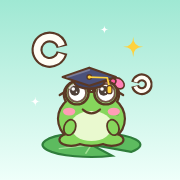
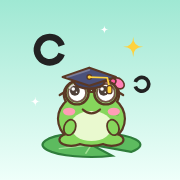
The eye-chart C is black
Every "C" (トリプル C, かぞえて C, まわりの C, うえした C, their icons and the app
icon) is now black like a real eye chart, without the brown sticker outline.
A C tapped by mistake turns grey, and the C to count in かぞえて C sits on the
same yellow disc as in the corner. sw.js VERSION miru-v3.

Changed region(s): [[0.1667, 0.1667, 0.3889, 0.3889], [0.7222, 0.3889, 0.8611, 0.5278]]

diff --git a/js/tr/countc.js b/js/tr/countc.js
@@ -78,14 +78,15 @@
         D.roundRect(c, BOX.x0 - 44, BOX.y0 - 50, BOX.x1 - BOX.x0 + 88, BOX.y1 - BOX.y0 + 94, 24); D.paint(c, 'rgba(255,255,255,.4)');
         if (phase === 'target') {
           A.text(c, L('この むきの Cを かぞえてね！'), 180, 104, 21, '#fff', { lw: 6 });
-          A.ringC(c, 180, 290, 52 + Math.sin(pt * 6) * 2, R.target, '#fff4b0');
+          A.disc(c, 180, 290, 76, '#fff4b0', 3);   // (the C to count sits on yellow, as in the corner later)
+          A.ringC(c, 180, 290, 52 + Math.sin(pt * 6) * 2, R.target);
           return;
         }
         // the C to count, small in the corner
         A.disc(c, 318, 116, 28, '#fff4b0', 3);
-        A.ringC(c, 318, 116, 18, R.target, '#fffdf5');
+        A.ringC(c, 318, 116, 18, R.target);
         A.text(c, L(phase === 'ask' ? 'いくつ あった？' : 'おなじ むきは いくつ？'), 150, 116, 21, '#fff', { lw: 6, max: 230 });
-        if (phase === 'show' && pt < p.show) { var q = R.cs[ci]; A.ringC(c, q.x, q.y, p.size, q.dir, '#fffdf5'); }
+        if (phase === 'show' && pt < p.show) { var q = R.cs[ci]; A.ringC(c, q.x, q.y, p.size, q.dir); }
         if (phase === 'good' || phase === 'bad') A.text(c, L('こたえは {n}', { n: R.ans }), 180, 290, 30, '#fff', { lw: 8 });
       },
       peek: function () { return phase === 'ask' ? { pad: R.ans } : null; },   // for playtesting
@@ -113,8 +114,9 @@
     start: start,
     icon: function (c, t) {
       var A = G.Art, k = Math.floor((t || 0) * 2) % 4;
-      A.ringC(c, 30, 30, 15, 1, '#fff4b0');
-      [[70, 36, 1], [34, 74, 2], [74, 74, 1], [52, 52, 0]].forEach(function (q, i) { if (i === k) A.ringC(c, q[0], q[1], 15, q[2], '#fffdf5'); });
+      A.disc(c, 30, 30, 21, '#fff4b0', 2.4);
+      A.ringC(c, 30, 30, 14, 1);
+      [[70, 36, 1], [34, 74, 2], [74, 74, 1], [52, 52, 0]].forEach(function (q, i) { if (i === k) A.ringC(c, q[0], q[1], 15, q[2]); });
     }
   });
 }(typeof Trainings !== 'undefined' ? Trainings : require('../trainings.js')));

diff --git a/js/art.js b/js/art.js
@@ -320,12 +320,19 @@ var Art = (function () {
   // Directions: 0 up, 1 right, 2 down, 3 left.
   var DIR_ANGLE = [-Math.PI / 2, 0, Math.PI / 2, Math.PI];
   // The "C" of an eye chart (a ring with a gap), gap towards dir.
+  // Black, as on a real eye chart; a light colour (a C that was tapped by mistake) gets the brown outline of the stickers.
+  var C_COLOR = '#222222';
   function ringC(ctx, x, y, r, dir, color) {
+    color = color || C_COLOR;
     var mid = r * 0.8, w = r * 0.42, a = DIR_ANGLE[dir], gap = Math.asin(Math.min(0.9, w * 0.62 / mid));
     ctx.save(); ctx.lineCap = 'butt';
-    ctx.beginPath(); ctx.arc(x, y, mid, a + gap - 0.1, a - gap + 0.1 + TAU); ctx.lineWidth = w + Math.max(3, r * 0.14); ctx.strokeStyle = INK; ctx.stroke();
-    ctx.beginPath(); ctx.arc(x, y, mid, a + gap, a - gap + TAU); ctx.lineWidth = w; ctx.strokeStyle = color || '#fffdf5'; ctx.stroke();
+    if (isLight(color)) { ctx.beginPath(); ctx.arc(x, y, mid, a + gap - 0.1, a - gap + 0.1 + TAU); ctx.lineWidth = w + Math.max(3, r * 0.14); ctx.strokeStyle = INK; ctx.stroke(); }
+    ctx.beginPath(); ctx.arc(x, y, mid, a + gap, a - gap + TAU); ctx.lineWidth = w; ctx.strokeStyle = color; ctx.stroke();
     ctx.restore();
+  }
+  function isLight(hex) {
+    var n = parseInt(hex.slice(1), 16);
+    return ((n >> 16) * 0.299 + ((n >> 8) & 255) * 0.587 + (n & 255) * 0.114) / 255 > 0.6;
   }
   // A chunky arrow pointing dir.
   function dirArrow(ctx, x, y, s, dir, color) {
@@ -404,7 +411,7 @@ var Art = (function () {
   }
 
   return {
-    FONT: FONT, MARKS: MARKS, CUP_COLOR: CUP_COLOR, DIR_ANGLE: DIR_ANGLE,
+    FONT: FONT, MARKS: MARKS, CUP_COLOR: CUP_COLOR, C_COLOR: C_COLOR, DIR_ANGLE: DIR_ANGLE,
     blob: blob, eyeDot: eyeDot, smile: smile, blush: blush, stroke: stroke, tube: tube, text: text, shade: shade,
     hakase: hakase, animal: animal, stamp: stamp, maru: maru, batsu: batsu,
     ringC: ringC, dirArrow: dirArrow, mark: mark, cup: cup, disc: disc, balloon: balloon, wing: wing

diff --git a/js/tr/triplec.js b/js/tr/triplec.js
@@ -77,7 +77,7 @@
           D.sparkle(c, 180, 285, 12 + Math.sin(pt * 10) * 2, '#ffd23d');
         } else if (phase === 'show') {
           A.text(c, L('Cの あいてる ほうを おぼえてね'), 180, 104, 20, '#fff', { lw: 6 });
-          if (pt < p.show) { var q = R.cs[ci]; A.ringC(c, q.x, q.y, p.size, q.dir, '#fffdf5'); }
+          if (pt < p.show) { var q = R.cs[ci]; A.ringC(c, q.x, q.y, p.size, q.dir); }
         } else {
           A.text(c, L(phase === 'ask' ? 'でた じゅんに こたえてね' : phase === 'good' ? 'ぜんぶ あたり！' : 'こたえは これ'), 180, 104, 22, '#fff', { lw: 6 });
           // the answer so far, one box per C
@@ -87,8 +87,8 @@
             D.roundRect(c, x - w / 2, y - w / 2, w, w, 14); D.paint(c, '#fffdf5', D.INK, 3);
             A.text(c, String(k + 1), x - w / 2 + 11, y - w / 2 + 11, 13, D.INK, { stroke: false });
             if (said[k] != null) A.dirArrow(c, x, y, 0.95, said[k], said[k] === R.cs[k].dir ? ARROW_COLORS[said[k]] : '#c9c1bb');
-            else if (phase === 'bad') A.ringC(c, x, y, 20, R.cs[k].dir, '#bfe7ff');
-            if (phase === 'bad' && said[k] != null && said[k] !== R.cs[k].dir) A.ringC(c, x, y + 58, 17, R.cs[k].dir, '#bfe7ff');
+            else if (phase === 'bad') A.ringC(c, x, y, 20, R.cs[k].dir);
+            if (phase === 'bad' && said[k] != null && said[k] !== R.cs[k].dir) A.ringC(c, x, y + 58, 17, R.cs[k].dir);
           }
         }
       },
@@ -117,7 +117,7 @@
     start: start,
     icon: function (c, t) {
       var A = G.Art, k = Math.floor((t || 0) * 1.5) % 3;
-      [[28, 30, 0], [72, 46, 1], [40, 76, 3]].forEach(function (q, i) { if (i <= k) A.ringC(c, q[0], q[1], 15, q[2], '#fffdf5'); });
+      [[28, 30, 0], [72, 46, 1], [40, 76, 3]].forEach(function (q, i) { if (i <= k) A.ringC(c, q[0], q[1], 15, q[2]); });
     }
   });
 }(typeof Trainings !== 'undefined' ? Trainings : require('../trainings.js')));

diff --git a/js/tr/peric.js b/js/tr/peric.js
@@ -61,10 +61,10 @@
         A.text(c, L('まんなかと おなじ むきの Cは どれ？'), 180, 104, 20, '#fff', { lw: 6 });
         D.circle(c, CX, CY, p.radius + p.size + 14); D.paint(c, 'rgba(255,255,255,.4)');
         D.circle(c, CX, CY, p.size * 1.5 + 10); D.paint(c, '#fff4b0', D.INK, 3);
-        A.ringC(c, CX, CY, p.size * 1.5, Q.dir, '#fffdf5');
+        A.ringC(c, CX, CY, p.size * 1.5, Q.dir);
         Q.cs.forEach(function (q, k) {
           if (phase === 'good' && k === Q.ans) { D.circle(c, q.x, q.y, p.size + 8); D.paint(c, 'rgba(255,143,192,.5)'); }
-          A.ringC(c, q.x, q.y, p.size, q.dir, k === wrong ? '#d8d0ca' : '#fffdf5');
+          A.ringC(c, q.x, q.y, p.size, q.dir, k === wrong ? '#b3aaa4' : null);   // (a C tapped by mistake turns grey)
         });
       },
       peek: function () {   // for playtesting
@@ -102,10 +102,10 @@
     icon: function (c, t) {
       var A = G.Art, D = G.Draw;
       D.circle(c, 50, 52, 16); D.paint(c, '#fff4b0', D.INK, 2);
-      A.ringC(c, 50, 52, 12, 1, '#fffdf5');
+      A.ringC(c, 50, 52, 12, 1);
       [[50, 16, 0], [86, 52, 1], [50, 88, 2], [14, 52, 3]].forEach(function (q, i) {
         if (i === 1) { D.circle(c, q[0], q[1], 14 + Math.sin((t || 0) * 5) * 1.5); D.paint(c, 'rgba(255,143,192,.5)'); }
-        A.ringC(c, q[0], q[1], 10, q[2], '#fffdf5');
+        A.ringC(c, q[0], q[1], 10, q[2]);
       });
     }
   });

diff --git a/js/tr/updownc.js b/js/tr/updownc.js
@@ -63,8 +63,8 @@
         A.text(c, L(phase === 'ask' || phase === 'good' || phase === 'bad' ? 'おなじ むき だった？' : 'まんなかの ほしを みててね'), 180, 104, 21, '#fff', { lw: 6 });
         D.sparkle(c, 180, MID, 13 + Math.sin(pt * 8) * 2, '#ffd23d');
         if (phase === 'flash' || phase === 'good' || phase === 'bad') {
-          A.ringC(c, Q.xa, MID - p.spread, p.size, Q.a, '#fffdf5');
-          A.ringC(c, Q.xb, MID + p.spread, p.size, Q.b, '#fffdf5');
+          A.ringC(c, Q.xa, MID - p.spread, p.size, Q.a);
+          A.ringC(c, Q.xb, MID + p.spread, p.size, Q.b);
         }
       },
       peek: function () { return phase === 'ask' ? { cho: Q.same ? 0 : 1 } : null; },   // for playtesting
@@ -93,7 +93,7 @@
     icon: function (c, t) {
       var A = G.Art, D = G.Draw, on = Math.sin((t || 0) * 3) > -0.3;
       D.sparkle(c, 50, 52, 8, '#ffd23d');
-      if (on) { A.ringC(c, 30, 18, 12, 1, '#fffdf5'); A.ringC(c, 70, 84, 12, 1, '#fffdf5'); }
+      if (on) { A.ringC(c, 30, 18, 12, 1); A.ringC(c, 70, 84, 12, 1); }
     }
   });
 }(typeof Trainings !== 'undefined' ? Trainings : require('../trainings.js')));

diff --git a/tools/icon.html b/tools/icon.html
@@ -23,9 +23,9 @@ function draw() {
   g.save();
   if (mask) { g.translate(50, 50); g.scale(0.8, 0.8); g.translate(-50, -50); }
   // the eye chart C and a little star, up where ケロはかせ is looking
-  Art.ringC(g, 22, 22, 11, 1, '#fffdf5');
+  Art.ringC(g, 22, 22, 11, 1);
   Draw.sparkle(g, 80, 20, 7, '#ffd23d');
-  Art.ringC(g, 86, 46, 6, 3, '#fffdf5');
+  Art.ringC(g, 86, 46, 6, 3);
   // ケロはかせ
   g.save(); g.translate(51, 63); g.scale(0.5, 0.5); g.translate(-180, -300);
   Draw.critter(g, { x: 180, y: 300, t: 0, kind: 'frog', look: { x: 60, y: 160 }, open: 0, mode: 'idle', mt: 0, wear: Art.hakase });

diff --git a/sw.js b/sw.js
@@ -6,7 +6,7 @@
    over at once, and the page reloads itself on the title screen.
    The site hosts other games and the menu, which share the cache storage,
    so only caches whose names start with "miru-" are ever deleted here. */
-var VERSION = 'miru-v2';
+var VERSION = 'miru-v3';
 var FONTS = 'miru-fonts';
 var FILES = [
   './', 'index.html', 'style.css', 'manifest.webmanifest',

diff --git a/DESIGN.md b/DESIGN.md
@@ -114,3 +114,4 @@
 - アメフト：「15人」は つっこんで くる 人数（2人 いっしょの ときも 1人ずつ かぞえる）
 - うえした C：半分は おなじ むき、半分は ちがう むき（じゅんばんは ばらばら）
 - シャッフル：コップは **ぜんぶ おなじ いろ**（いろが ちがうと、めで おわなくても いろで わかって しまうため。ユーザーの指定）
+- C（ランドルト環）は ほんものの 視力検査表と おなじ **黒**（ユーザーの指定）。まちがえて タッチした Cは はいいろ。かぞえて C の「かぞえる C」は きいろの まるの うえ
